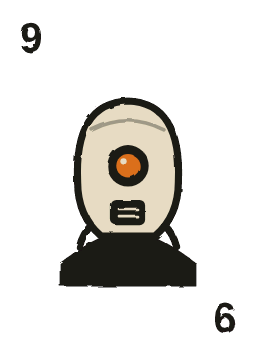
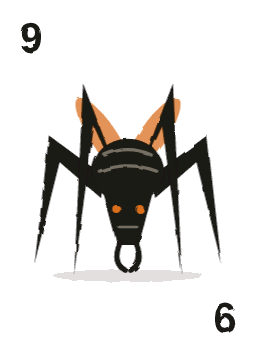
The card table's deck: the 9 is an antlion
The owner: "replace the elite card with an antlion". Only 9.png changed in what players see.

Claude-Session: https://claude.ai/code/session_01Y8SXQkYrUC2vSdmFZKTNua

Changed region(s): [[0.125, 0.2163, 0.875, 0.8343]]

diff --git a/_dev/posters/cards.js b/_dev/posters/cards.js
@@ -2,7 +2,7 @@
 // (2 to 14, the ace high), four suits and the back. A deck made by hand in a back room: stencils cut with a
 // knife, black paint and orange on the card of Union ration boxes.
 //   2 the can, 3 a ration, 4 a headcrab, 5 a manhack, 6 a barnacle, 7 a scanner, 8 Civil Protection,
-//   9 an Overwatch Elite, 10 a strider, J a vortigaunt, Q the Administrator, K the Colonel, A the Free Man
+//   9 an antlion, 10 a strider, J a vortigaunt, Q the Administrator, K the Colonel, A the Free Man
 // A face is ink alone on nothing; the card under it is its suit's (the owner, 19 November: one set of faces
 // and four suit pictures, not four sets): suit1 the Resistance, suit2 the Combine, suit3 the Union, suit4 the
 // vortigaunts. The game lays the face over the suit.
@@ -61,11 +61,12 @@ const ART = {
     f('M-52,-10 Q-54,-82 0,-84 Q54,-82 52,-10 Q50,42 24,64 L-24,64 Q-50,42 -52,-10 Z') + s('M-22,68 L0,96 L22,68', 4, P) +
     c(-23, -20, 16, P) + c(23, -20, 16, P) + c(-28, -25, 4, K, 'opacity=".25"') + c(18, -25, 4, K, 'opacity=".25"') +
     `<rect x="-17" y="20" width="34" height="32" rx="7" fill="${P}"/>` + s('M-9,29 L9,29 M-9,36 L9,36 M-9,43 L9,43', 3),
-  // an Overwatch Elite
-  9: () => f('M-76,116 L-76,90 Q-44,66 -26,60 L26,60 Q44,66 76,90 L76,116 Z') + mirror(s('M-16,36 Q-46,42 -54,72', 8)) +
-    `<path d="M-56,0 Q-60,-88 0,-90 Q60,-88 56,0 Q56,38 30,60 L-30,60 Q-56,38 -56,0 Z" fill="${P}" stroke="${K}" stroke-width="8"/>` +
-    s('M-40,-58 Q0,-78 40,-58', 4, K, 'opacity=".35"') + c(0, -18, 23) + c(0, -18, 13, O) + c(-5, -23, 3.5, P) +
-    `<rect x="-19" y="20" width="38" height="28" rx="6" fill="${K}"/>` + s('M-10,30 L10,30 M-10,38 L10,38', 3, P),
+  // an antlion, head on
+  9: () => `<ellipse cx="0" cy="104" rx="84" ry="7" fill="${K}" opacity=".2"/>` +
+    mirror(`<ellipse cx="0" cy="-58" rx="15" ry="52" fill="${O}" opacity=".85" transform="rotate(-34 0 -10)"/>`) +
+    mirror(f('M-26,-6 L-88,-52 L-104,92 L-76,-22 L-30,18 Z') + f('M-18,-26 L-50,-110 L-60,104 L-38,-62 L-12,-6 Z')) +
+    `<ellipse cx="0" cy="-12" rx="40" ry="36" fill="${K}"/>` + s('M-26,-30 Q0,-42 26,-30 M-32,-12 Q0,-24 32,-12', 3.5, P, 'opacity=".45"') +
+    f('M-27,14 L27,14 L12,70 L-12,70 Z') + mirror(s('M-9,68 Q-18,90 -3,98', 6) + c(-13, 30, 4.5, O)) + s('M-10,50 L10,50', 3, P, 'opacity=".45"'),
   // a strider over the roofs
   10: () => f('M-104,116 L-104,98 L-84,98 L-84,84 L-62,84 L-62,104 L-40,104 L-40,90 L-18,90 L-18,106 L22,106 L22,94 L44,94 L44,80 L62,80 L62,102 L104,102 L104,116 Z', K, 'opacity=".5"') +
     s('M-26,-70 L-72,-108 L-86,114', 9) + s('M30,-72 L80,-104 L94,114', 9) + s('M2,-62 L12,-24 L-2,114', 9) +

diff --git a/docs/features/resistance-money.md b/docs/features/resistance-money.md
@@ -58,7 +58,7 @@ The owner: "A back-room card game on rebel ground, with the house cut going to t
 - **A fixture**, "Fixture: card table" (point kind `cardtable`, entity `lc_cardtable`), for a back room on rebel ground. **Off rebel ground it does nothing.** Units, soldiers, the Administrator and the infested don't play.
 - **Four seats. E on the table sits you down** and opens one small window, "High card". **Closing the window, or walking off (160 units from the table), stands you up**, as do dying or becoming a unit. With four players seated, E shows the table as it is without a seat.
 - **Empty seats are filled by the Resistance's own people** (no models: plain names from the city's name list in the window), so a lone player has three to play against and two players have two. A player sitting down takes the seat of one of them; a player standing up gives it back. When the last player stands, they go and the table is empty.
-- **The deck (19 November, the owner: "can you make the cards (images/graphics)? Would be funny if they could be themed to the gamemode and HL2"):** the window shows the four seats side by side, each card a picture from the Resistance's own hand-made deck, the name under it: 2 the can, 3 a ration packet (a sealed pouch with the Combine emblem), 4 a headcrab, 5 a manhack, 6 a barnacle (with a boot), 7 a scanner, 8 Civil Protection, 9 an Overwatch Elite, 10 a strider, J a vortigaunt, Q the Administrator on her screen, K the Colonel, A the Free Man; a seat with no card shows the back (the lambda sprayed on a ration box). **Four suits, as layers** (the owner: "remove the lambda from the cards so they are all suite neutral ... one set of cards and 4 images: one for each suite"): a face is ink alone on nothing (`2.png` to `14.png`), and the card under it is its suit's (`suit1.png` the Resistance, `suit2.png` the Combine, `suit3.png` the Union, `suit4.png` the vortigaunts: the paper's tint, a line, the suit's mark under each rank and faint in the middle); the window lays the face over the suit. A suit decides nothing in either game: it is only which of the four cards of a rank it is. All eighteen pictures (with `back.png`; 256 x 356, about 250 KB together, made by `_dev/posters/cards.js` then `cards_shrink.py`) are in `materials/livingcity/cards/`, loose in the server's `garrysmod/` (`livingcity_content.zip`), sent to players at map start; **without them the cards are drawn plainly, as before**.
+- **The deck (19 November, the owner: "can you make the cards (images/graphics)? Would be funny if they could be themed to the gamemode and HL2"):** the window shows the four seats side by side, each card a picture from the Resistance's own hand-made deck, the name under it: 2 the can, 3 a ration packet (a sealed pouch with the Combine emblem), 4 a headcrab, 5 a manhack, 6 a barnacle (with a boot), 7 a scanner, 8 Civil Protection, 9 an antlion, 10 a strider, J a vortigaunt, Q the Administrator on her screen, K the Colonel, A the Free Man; a seat with no card shows the back (the lambda sprayed on a ration box). **Four suits, as layers** (the owner: "remove the lambda from the cards so they are all suite neutral ... one set of cards and 4 images: one for each suite"): a face is ink alone on nothing (`2.png` to `14.png`), and the card under it is its suit's (`suit1.png` the Resistance, `suit2.png` the Combine, `suit3.png` the Union, `suit4.png` the vortigaunts: the paper's tint, a line, the suit's mark under each rank and faint in the middle); the window lays the face over the suit. A suit decides nothing in either game: it is only which of the four cards of a rank it is. All eighteen pictures (with `back.png`; 256 x 356, about 250 KB together, made by `_dev/posters/cards.js` then `cards_shrink.py`) are in `materials/livingcity/cards/`, loose in the server's `garrysmod/` (`livingcity_content.zip`), sent to players at map start; **without them the cards are drawn plainly, as before**.
 - **Two games (19 November, the owner: "can we have a few more simple card games"; of four offered they picked Twenty-one, with "Same pot as high card"):** whoever sat first picks the game between hands, with two buttons, "High card" and "Twenty-one" (the window's title is the game; everyone else reads it there). **Twenty-one:** Deal takes the stakes exactly as in high card (the same pot, the same 70 per cent, the same limit of hands an hour) and gives everyone two cards; you see your own, fanned, with what they are worth under your name (2 to 10 their number; the vortigaunt, the Administrator and the Colonel 10; the Free Man 11 or 1), and the others' face down. **Card** takes one, **Stay** ends your part, where Deal was; 21, over 21 or five cards ends it too. Everyone plays at once and has 20 seconds (a thin bar runs down; out of time you stay). The Resistance's own people take a card below 16. Then every hand is turned up: **the nearest to 21 without passing it takes 70 per cent of the pot (a tie splits it), the fund the rest; with everyone over 21 the fund takes the whole pot.** Standing up during a hand leaves your stake in it (the table emptied, the pot is the fund's); nobody sits down, and the stake and the game can't change, while a hand is on. Nothing in the chat.
 - **The stake:** one for everyone at the table, 5, 10 or 25, picked by whoever sat first (three buttons, one they can't cover greyed out; they may change it between hands). If they stand, the player seated longest picks it. **It stays until the table is empty.** No hand before it is picked.
 - **A hand:** any seated player presses Deal (one hand every 4 seconds at a table). Everyone seated puts the stake into the pot; a player who can't is stood up first, with nothing in the chat (their window says "Short of the stake"; nobody else is told). **The Resistance's own people put in 5 at most, whatever the stake** (their own money, from the city, as when the city's people buy things). One card each from a fresh deck; **the highest card takes 70 per cent of the pot, rounded down; the rest goes to the fund** ("The card table's cut" on the fund's record). **A tie splits the 70 per cent** among the tied, and what does not divide goes to the fund. What one of the city's people wins goes home with them.
